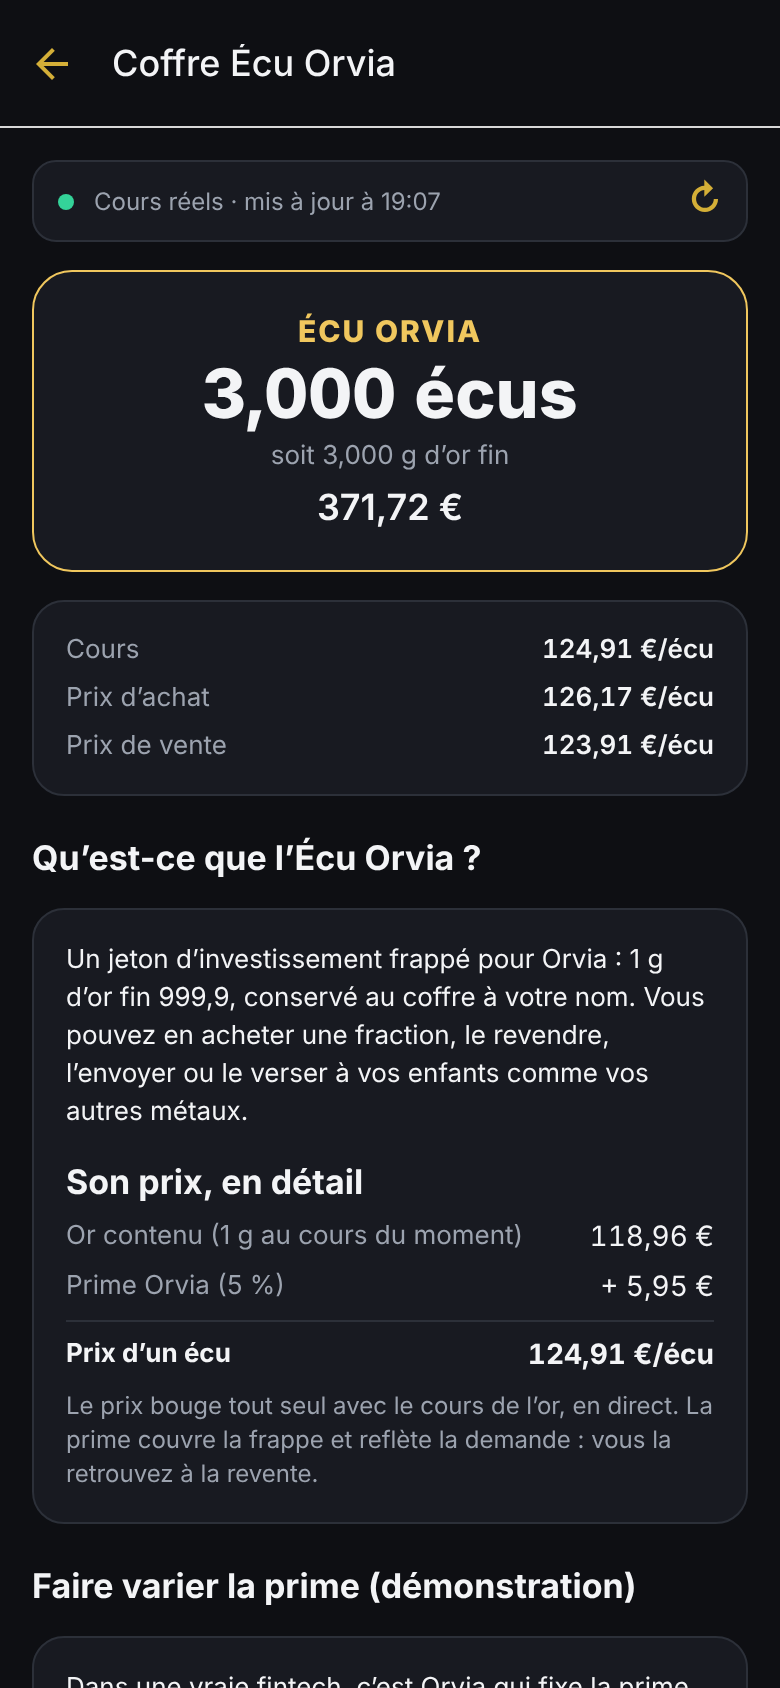
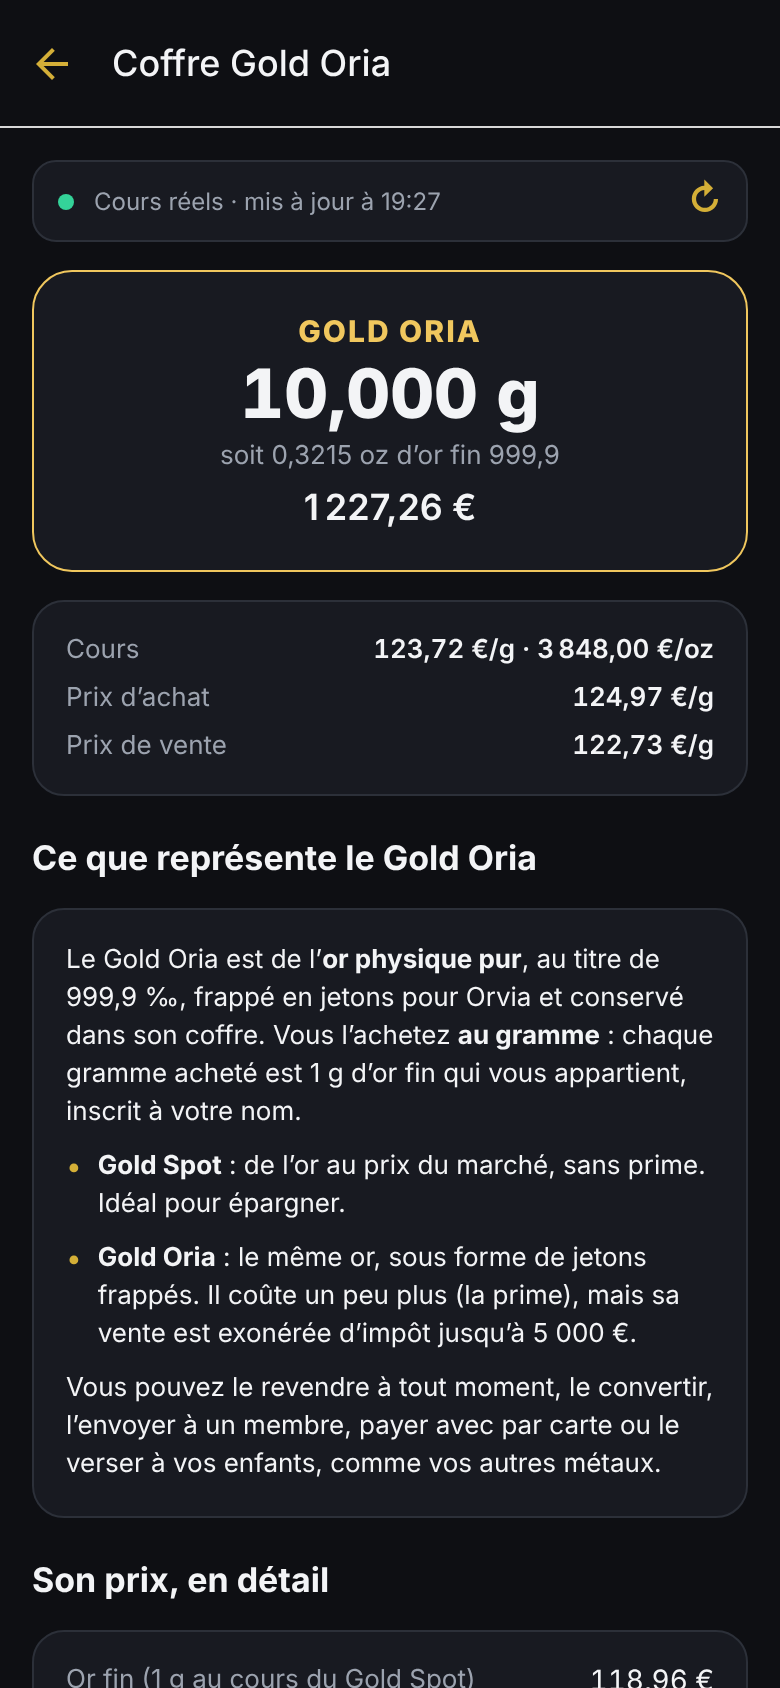
Gold Oria : achat au gramme, explication et fiscalité détaillées
- Quantités en grammes et onces comme les autres métaux (1 g de Gold Oria
  = 1 g d'or fin 999,9)
- Coffre : ce que représente le Gold Oria (or physique pur en jetons,
  différence avec le Gold Spot), détail du prix et des frais, fiscalité
  des jetons avec un tableau d'impôt comparé au Gold Spot

Claude-Session: https://claude.ai/code/session_019m3ctJVz1TpkJKNRs6VdX9

diff --git a/src/components/EcuInfo.tsx b/src/components/EcuInfo.tsx
@@ -1,7 +1,9 @@
 import { Pressable, StyleSheet, Text, View } from 'react-native';
 
 import { clampPremium, ECU } from '../logic/ecu';
-import { formatEur, formatUnitPrice } from '../logic/format';
+import { FEES } from '../logic/fees';
+import { GAIN_RATE, TAX } from '../logic/tax';
+import { formatEur, formatUnitPrice, formatWeight } from '../logic/format';
 import { useAccount, useBank } from '../state/BankProvider';
 import { colors } from '../theme';
 import { Card, Hint, SectionTitle } from './ui';
@@ -19,21 +21,79 @@ export function EcuInfo() {
 
   return (
     <>
-      <SectionTitle>Qu’est-ce que le Gold Oria ?</SectionTitle>
+      <SectionTitle>Ce que représente le Gold Oria</SectionTitle>
       <Card style={{ gap: 8 }}>
         <Text style={styles.para}>
-          Un jeton d’investissement frappé pour Orvia : {ECU.goldGrams} g d’or fin {ECU.fineness}, conservé au coffre à
-          votre nom. Vous pouvez en acheter une fraction, le revendre, l’envoyer ou le verser à vos enfants comme vos
-          autres métaux.
+          Le Gold Oria est de l’<Text style={styles.bold}>or physique pur</Text>, au titre de {ECU.fineness} ‰, frappé
+          en jetons pour Orvia et conservé dans son coffre. Vous l’achetez <Text style={styles.bold}>au gramme</Text> :
+          chaque gramme acheté est 1 g d’or fin qui vous appartient, inscrit à votre nom.
         </Text>
-        <SectionTitle>Son prix, en détail</SectionTitle>
-        <Row label={`Or contenu (${ECU.goldGrams} g au cours du moment)`} value={formatEur(gold)} />
+        <Bullet>
+          <Text style={styles.bold}>Gold Spot</Text> : de l’or au prix du marché, sans prime. Idéal pour épargner.
+        </Bullet>
+        <Bullet>
+          <Text style={styles.bold}>Gold Oria</Text> : le même or, sous forme de jetons frappés. Il coûte un peu plus
+          (la prime), mais sa vente est exonérée d’impôt jusqu’à 5 000 €.
+        </Bullet>
+        <Text style={styles.para}>
+          Vous pouvez le revendre à tout moment, le convertir, l’envoyer à un membre, payer avec par carte ou le verser
+          à vos enfants, comme vos autres métaux.
+        </Text>
+      </Card>
+
+      <SectionTitle>Son prix, en détail</SectionTitle>
+      <Card style={{ gap: 8 }}>
+        <Row label="Or fin (1 g au cours du Gold Spot)" value={formatEur(gold)} />
         <Row label={`Prime Orvia (${pct(premium)})`} value={`+ ${formatEur(gold * premium)}`} />
         <View style={styles.sep} />
-        <Row label="Prix d’un jeton" value={formatUnitPrice(quote.prices.ecu, 'g', 'ecu')} strong />
+        <Row label="Prix d’un gramme de Gold Oria" value={formatUnitPrice(quote.prices.ecu, 'g')} strong />
         <Text style={styles.muted}>
-          Le prix bouge tout seul avec le cours de l’or, en direct. La prime couvre la frappe et reflète la demande :
-          vous la retrouvez à la revente.
+          Le prix suit le cours de l’or en direct. La prime couvre la frappe et reflète la demande : vous la retrouvez à
+          la revente. À l’achat s’ajoutent {pct(FEES.buy.ecu)} de frais, à la revente {pct(FEES.sale)}.
+        </Text>
+      </Card>
+
+      <SectionTitle>Sa fiscalité</SectionTitle>
+      <Card style={{ gap: 8 }}>
+        <Text style={styles.para}>
+          Le Gold Oria relève du régime des jetons. L’impôt est calculé et retenu automatiquement à chaque vente :
+        </Text>
+        <Bullet>
+          <Text style={styles.bold}>Vente jusqu’à {formatEur(TAX.tokenExemptUpTo)}</Text> : aucun impôt.
+        </Bullet>
+        <Bullet>
+          <Text style={styles.bold}>Au-delà</Text> : {pct(TAX.tokenFlat)} du prix de vente (6 % + 0,5 % de CRDS), ou le
+          régime des plus-values s’il coûte moins cher : {pct(GAIN_RATE)} de la plus-value, réduite de 5 % par année de
+          détention à partir de la 3e, exonération totale après 22 ans.
+        </Bullet>
+        <Bullet>
+          Le seuil s’apprécie à chaque vente. Une conversion, un paiement par carte ou un virement vers une banque sont
+          aussi des ventes ; un envoi à un membre ou un versement à un enfant n’en sont pas (règles des dons).
+        </Bullet>
+        <Text style={[styles.para, styles.bold]}>Impôt selon le montant vendu, comparé au Gold Spot</Text>
+        <View style={styles.table}>
+          <View style={styles.tr}>
+            <Text style={[styles.th, { flex: 1.2 }]}>Vente de</Text>
+            <Text style={styles.th}>Gold Oria</Text>
+            <Text style={styles.th}>Gold Spot</Text>
+          </View>
+          {[1000, 5000, 10000, 20000].map((v) => (
+            <View key={v} style={styles.tr}>
+              <Text style={[styles.td, { flex: 1.2 }]}>
+                {formatEur(v)}
+                {'\n'}
+                <Text style={styles.muted}>≈ {formatWeight(v / (quote.prices.ecu * (1 - FEES.sale)), 'g')}</Text>
+              </Text>
+              <Text style={[styles.td, v <= TAX.tokenExemptUpTo && { color: colors.up }]}>
+                {v <= TAX.tokenExemptUpTo ? '0 €' : formatEur(v * TAX.tokenFlat)}
+              </Text>
+              <Text style={styles.td}>{formatEur(v * TAX.flat)}</Text>
+            </View>
+          ))}
+        </View>
+        <Text style={styles.muted}>
+          Taux forfaitaires : {pct(TAX.tokenFlat)} au-delà de 5 000 € pour le Gold Oria, {pct(TAX.flat)} dès le premier
+          euro pour le Gold Spot. Si le régime des plus-values coûte moins cher, c’est lui qui est appliqué.
         </Text>
       </Card>
 
@@ -72,12 +132,16 @@ export function EcuInfo() {
           valeur même si l’or ne bouge pas ; si elle monte, il en gagne.
         </Hint>
       </Card>
-
-      <Hint>
-        Fiscalité des jetons : aucun impôt pour une vente jusqu’à 5 000 € ; au-delà, 6,5 % du prix de vente (6 % + 0,5 %
-        de CRDS), ou le régime des plus-values s’il coûte moins cher.
-      </Hint>
     </>
+  );
+}
+
+function Bullet({ children }: { children: React.ReactNode }) {
+  return (
+    <View style={{ flexDirection: 'row', gap: 8 }}>
+      <Text style={{ color: colors.gold, lineHeight: 19 }}>•</Text>
+      <Text style={[styles.para, { flex: 1 }]}>{children}</Text>
+    </View>
   );
 }
 
@@ -91,6 +155,10 @@ function Row({ label, value, strong }: { label: string; value: string; strong?: 
 }
 
 const styles = StyleSheet.create({
+  table: { borderWidth: 1, borderColor: colors.border, borderRadius: 12, overflow: 'hidden' },
+  tr: { flexDirection: 'row', borderTopWidth: 1, borderTopColor: colors.border, marginTop: -1 },
+  th: { flex: 1, color: colors.textMuted, fontSize: 12, fontWeight: '700', padding: 8 },
+  td: { flex: 1, color: colors.text, fontSize: 13, padding: 8, fontVariant: ['tabular-nums'] },
   para: { color: colors.text, fontSize: 13, lineHeight: 19 },
   muted: { color: colors.textMuted, fontSize: 12, lineHeight: 17 },
   row: { flexDirection: 'row', justifyContent: 'space-between', gap: 10 },

diff --git a/src/components/AmountInput.tsx b/src/components/AmountInput.tsx
@@ -1,4 +1,3 @@
-import { useEffect } from 'react';
 import { StyleSheet, Text, TextInput, View } from 'react-native';
 
 import type { AmountUnit, Metal } from '../logic/types';
@@ -13,7 +12,7 @@ interface Props {
   onUnitChange: (unit: AmountUnit) => void;
   /** Unités proposées (par défaut : euros, grammes, onces). */
   units?: AmountUnit[];
-  /** Pour l'Écu Orvia, la quantité se compte en écus (1 écu = 1 g d'or fin) et non en onces. */
+  /** Actif concerné (réservé : toutes les quantités se saisissent en grammes ou en onces). */
   metal?: Metal;
 }
 
@@ -21,13 +20,8 @@ const UNIT_LABEL: Record<AmountUnit, string> = { eur: 'Euros', g: 'Grammes', oz:
 
 /** Saisie d'un montant en euros, en grammes ou en onces troy. */
 export function AmountInput({ text, onChangeText, unit, onUnitChange, units = ['eur', 'g', 'oz'], metal }: Props) {
-  const ecu = metal === 'ecu';
-  const shown = ecu ? units.filter((u) => u !== 'oz') : units;
-  const label = (u: AmountUnit) => (ecu && u === 'g' ? 'Jetons' : UNIT_LABEL[u]);
-  // Les écus ne se comptent pas en onces.
-  useEffect(() => {
-    if (ecu && unit === 'oz') onUnitChange('g');
-  }, [ecu, unit, onUnitChange]);
+  const shown = units;
+  const label = (u: AmountUnit) => UNIT_LABEL[u];
   return (
     <View style={styles.wrap}>
       <Segmented value={unit} onChange={onUnitChange} options={shown.map((u) => ({ value: u, label: label(u) }))} />
@@ -41,7 +35,7 @@ export function AmountInput({ text, onChangeText, unit, onUnitChange, units = ['
           style={[ui.input, styles.input]}
           accessibilityLabel={`Montant en ${label(unit).toLowerCase()}`}
         />
-        {!(ecu && unit !== 'eur') && <Text style={styles.unit}>{unit === 'eur' ? '€' : unit}</Text>}
+        <Text style={styles.unit}>{unit === 'eur' ? '€' : unit}</Text>
       </View>
     </View>
   );

diff --git a/src/logic/format.ts b/src/logic/format.ts
@@ -11,14 +11,9 @@ function decimalsFor(abs: number): number {
   return abs >= 100 ? 2 : abs >= 1 ? 3 : 4;
 }
 
-function formatEcus(n: number): string {
-  const text = n.toFixed(Math.abs(n) >= 100 ? 2 : 3).replace('.', ',');
-  return `${text} jeton${Math.abs(n) >= 2 ? 's' : ''}`;
-}
-
-/** Formate un poids donné en grammes, dans l'unité choisie ; pour l'Écu Orvia, un nombre d'écus. */
+/** Formate un poids donné en grammes, dans l'unité choisie. */
+ 
 export function formatWeight(grams: number, unit: WeightUnit = 'g', metal?: Metal): string {
-  if (metal === 'ecu') return formatEcus(grams);
   const value = unit === 'oz' ? grams / TROY_OUNCE : grams;
   const text = value.toFixed(decimalsFor(Math.abs(value))).replace('.', ',');
   return `${text} ${unit === 'oz' ? 'oz' : 'g'}`;
@@ -29,14 +24,14 @@ export function formatWeightDelta(grams: number, unit: WeightUnit = 'g', metal?:
   return `${grams > 0 ? '+' : grams < 0 ? '−' : ''}${formatWeight(Math.abs(grams), unit, metal)}`;
 }
 
-/** « 2,500 g de Gold Spot », « 3,000 jetons Gold Oria ». */
+/** « 2,500 g de Gold Spot », « 3,000 g de Gold Oria ». */
 export function formatQty(metal: Metal, grams: number, unit: WeightUnit = 'g'): string {
-  return metal === 'ecu' ? `${formatEcus(grams)} Gold Oria` : `${formatWeight(grams, unit)} ${METAL_OF[metal]}`;
+  return `${formatWeight(grams, unit)} ${METAL_OF[metal]}`;
 }
 
 /** Prix par unité de poids (€/g ou €/oz). */
+ 
 export function formatUnitPrice(eurPerGram: number, unit: WeightUnit = 'g', metal?: Metal): string {
-  if (metal === 'ecu') return `${formatEur(eurPerGram)}/jeton`;
   return `${formatEur(unit === 'oz' ? eurPerGram * TROY_OUNCE : eurPerGram)}/${unit}`;
 }
 

diff --git a/src/app/coffre/[metal].tsx b/src/app/coffre/[metal].tsx
@@ -5,7 +5,6 @@ import { PriceStatus } from '../../components/PriceStatus';
 import { TransactionRow } from '../../components/TransactionRow';
 import { Button, Card, Hint, Screen, SectionTitle } from '../../components/ui';
 import { EcuInfo } from '../../components/EcuInfo';
-import { ECU } from '../../logic/ecu';
 import { formatEur, formatUnitPrice, formatWeight } from '../../logic/format';
 import { buyPrice, METAL_LABEL, sellPrice } from '../../logic/ledger';
 import { type Metal, METALS } from '../../logic/types';
@@ -34,9 +33,8 @@ export default function VaultScreen() {
         <Text style={[styles.metal, { color: metalColor[metal] }]}>{METAL_LABEL[metal]}</Text>
         <Text style={styles.weight}>{formatWeight(grams, 'g', metal)}</Text>
         <Text style={styles.oz}>
-          {metal === 'ecu'
-            ? `soit ${formatWeight(grams * ECU.goldGrams, 'g')} d’or fin`
-            : `soit ${formatWeight(grams, 'oz')}`}
+          soit {formatWeight(grams, 'oz')}
+          {metal === 'ecu' ? ' d’or fin 999,9' : ''}
         </Text>
         <Text style={styles.value}>{formatEur(value)}</Text>
       </View>
@@ -44,11 +42,7 @@ export default function VaultScreen() {
       <Card style={{ gap: 8 }}>
         <Line
           label="Cours"
-          value={
-            metal === 'ecu'
-              ? formatUnitPrice(quote.prices.ecu, 'g', 'ecu')
-              : `${formatUnitPrice(quote.prices[metal], 'g')} · ${formatUnitPrice(quote.prices[metal], 'oz')}`
-          }
+          value={`${formatUnitPrice(quote.prices[metal], 'g')} · ${formatUnitPrice(quote.prices[metal], 'oz')}`}
         />
         <Line
           label="Prix d’achat"

diff --git a/src/app/(tabs)/operations.tsx b/src/app/(tabs)/operations.tsx
@@ -189,7 +189,7 @@ function OperationForm({ initialMode, initialMetal }: { initialMode: Mode; initi
               ? `Les euros sont versés sur votre compte bancaire en France (fictif). Frais de revente : ${pct(FEES.sale)}. L’impôt est calculé et retenu automatiquement, au régime le moins cher.`
               : `Frais de conversion : ${pct(FEES.conversion)} + frais d’achat du métal reçu.`}{' '}
           {metal === 'ecu'
-            ? 'Un jeton Gold Oria = 1 g d’or fin, au cours du Gold Spot plus la prime Orvia (détail dans son coffre).'
+            ? '1 g de Gold Oria = 1 g d’or fin 999,9, au cours du Gold Spot plus la prime Orvia. Vente exonérée d’impôt jusqu’à 5 000 € (détail dans son coffre).'
             : '1 once troy = 31,1035 g.'}
         </Hint>
         <Pressable onPress={() => router.push('/tarifs')} accessibilityRole="link">

diff --git a/src/components/LivePrices.tsx b/src/components/LivePrices.tsx
@@ -45,9 +45,7 @@ export function LivePrices({ unit }: { unit: WeightUnit }) {
             <Sparkline values={trend.values} color={metalColor[m]} />
             <View style={styles.prices}>
               <Text style={styles.price}>{formatUnitPrice(quote.prices[m], unit, m)}</Text>
-              <Text style={styles.priceOther}>
-                {m === 'ecu' ? '1 g d’or fin + prime' : formatUnitPrice(quote.prices[m], other)}
-              </Text>
+              <Text style={styles.priceOther}>{formatUnitPrice(quote.prices[m], other)}</Text>
             </View>
           </View>
         );

diff --git a/README.md b/README.md
@@ -67,8 +67,8 @@ Il est reconstruit automatiquement à chaque modification (voir `.github/workflo
 - **Le louis (LOU)**, monnaie interne d'Orvia : 1 LOU = 1 € de métal précieux au cours du moment ;
   le solde s'affiche aussi en louis.
 - **Gold Oria** (jeton maison, `src/logic/ecu.ts`, `docs/ecu-orvia.png`) : 1 g d'or fin 999,9 conservé au coffre ;
-  l'or classique s'appelle **Gold Spot**. Prix d'un jeton = 1 g × cours de l'or × (1 + prime), en direct ; prime par défaut de 4 %, réglable de 0 à
-  15 % dans son coffre (démonstration). S'achète en euros ou en jetons (frais d'achat 1 %), se revend, se convertit,
+  l'or classique s'appelle **Gold Spot**. Prix d'un gramme = 1 g × cours de l'or × (1 + prime), en direct ; prime par défaut de 4 %, réglable de 0 à
+  15 % dans son coffre (démonstration). S'achète en euros, en grammes ou en onces (frais d'achat 1 %), se revend, se convertit,
   s'envoie et se verse aux enfants. Fiscalité des jetons : vente exonérée jusqu'à 5 000 €, au-delà 6,5 % du prix de
   vente ou régime des plus-values si moins cher. Compte comme de l'or dans la répartition.
 - **Carte Orvia** (simulée) : carte de paiement virtuelle adossée aux métaux du compte ; chaque paiement
